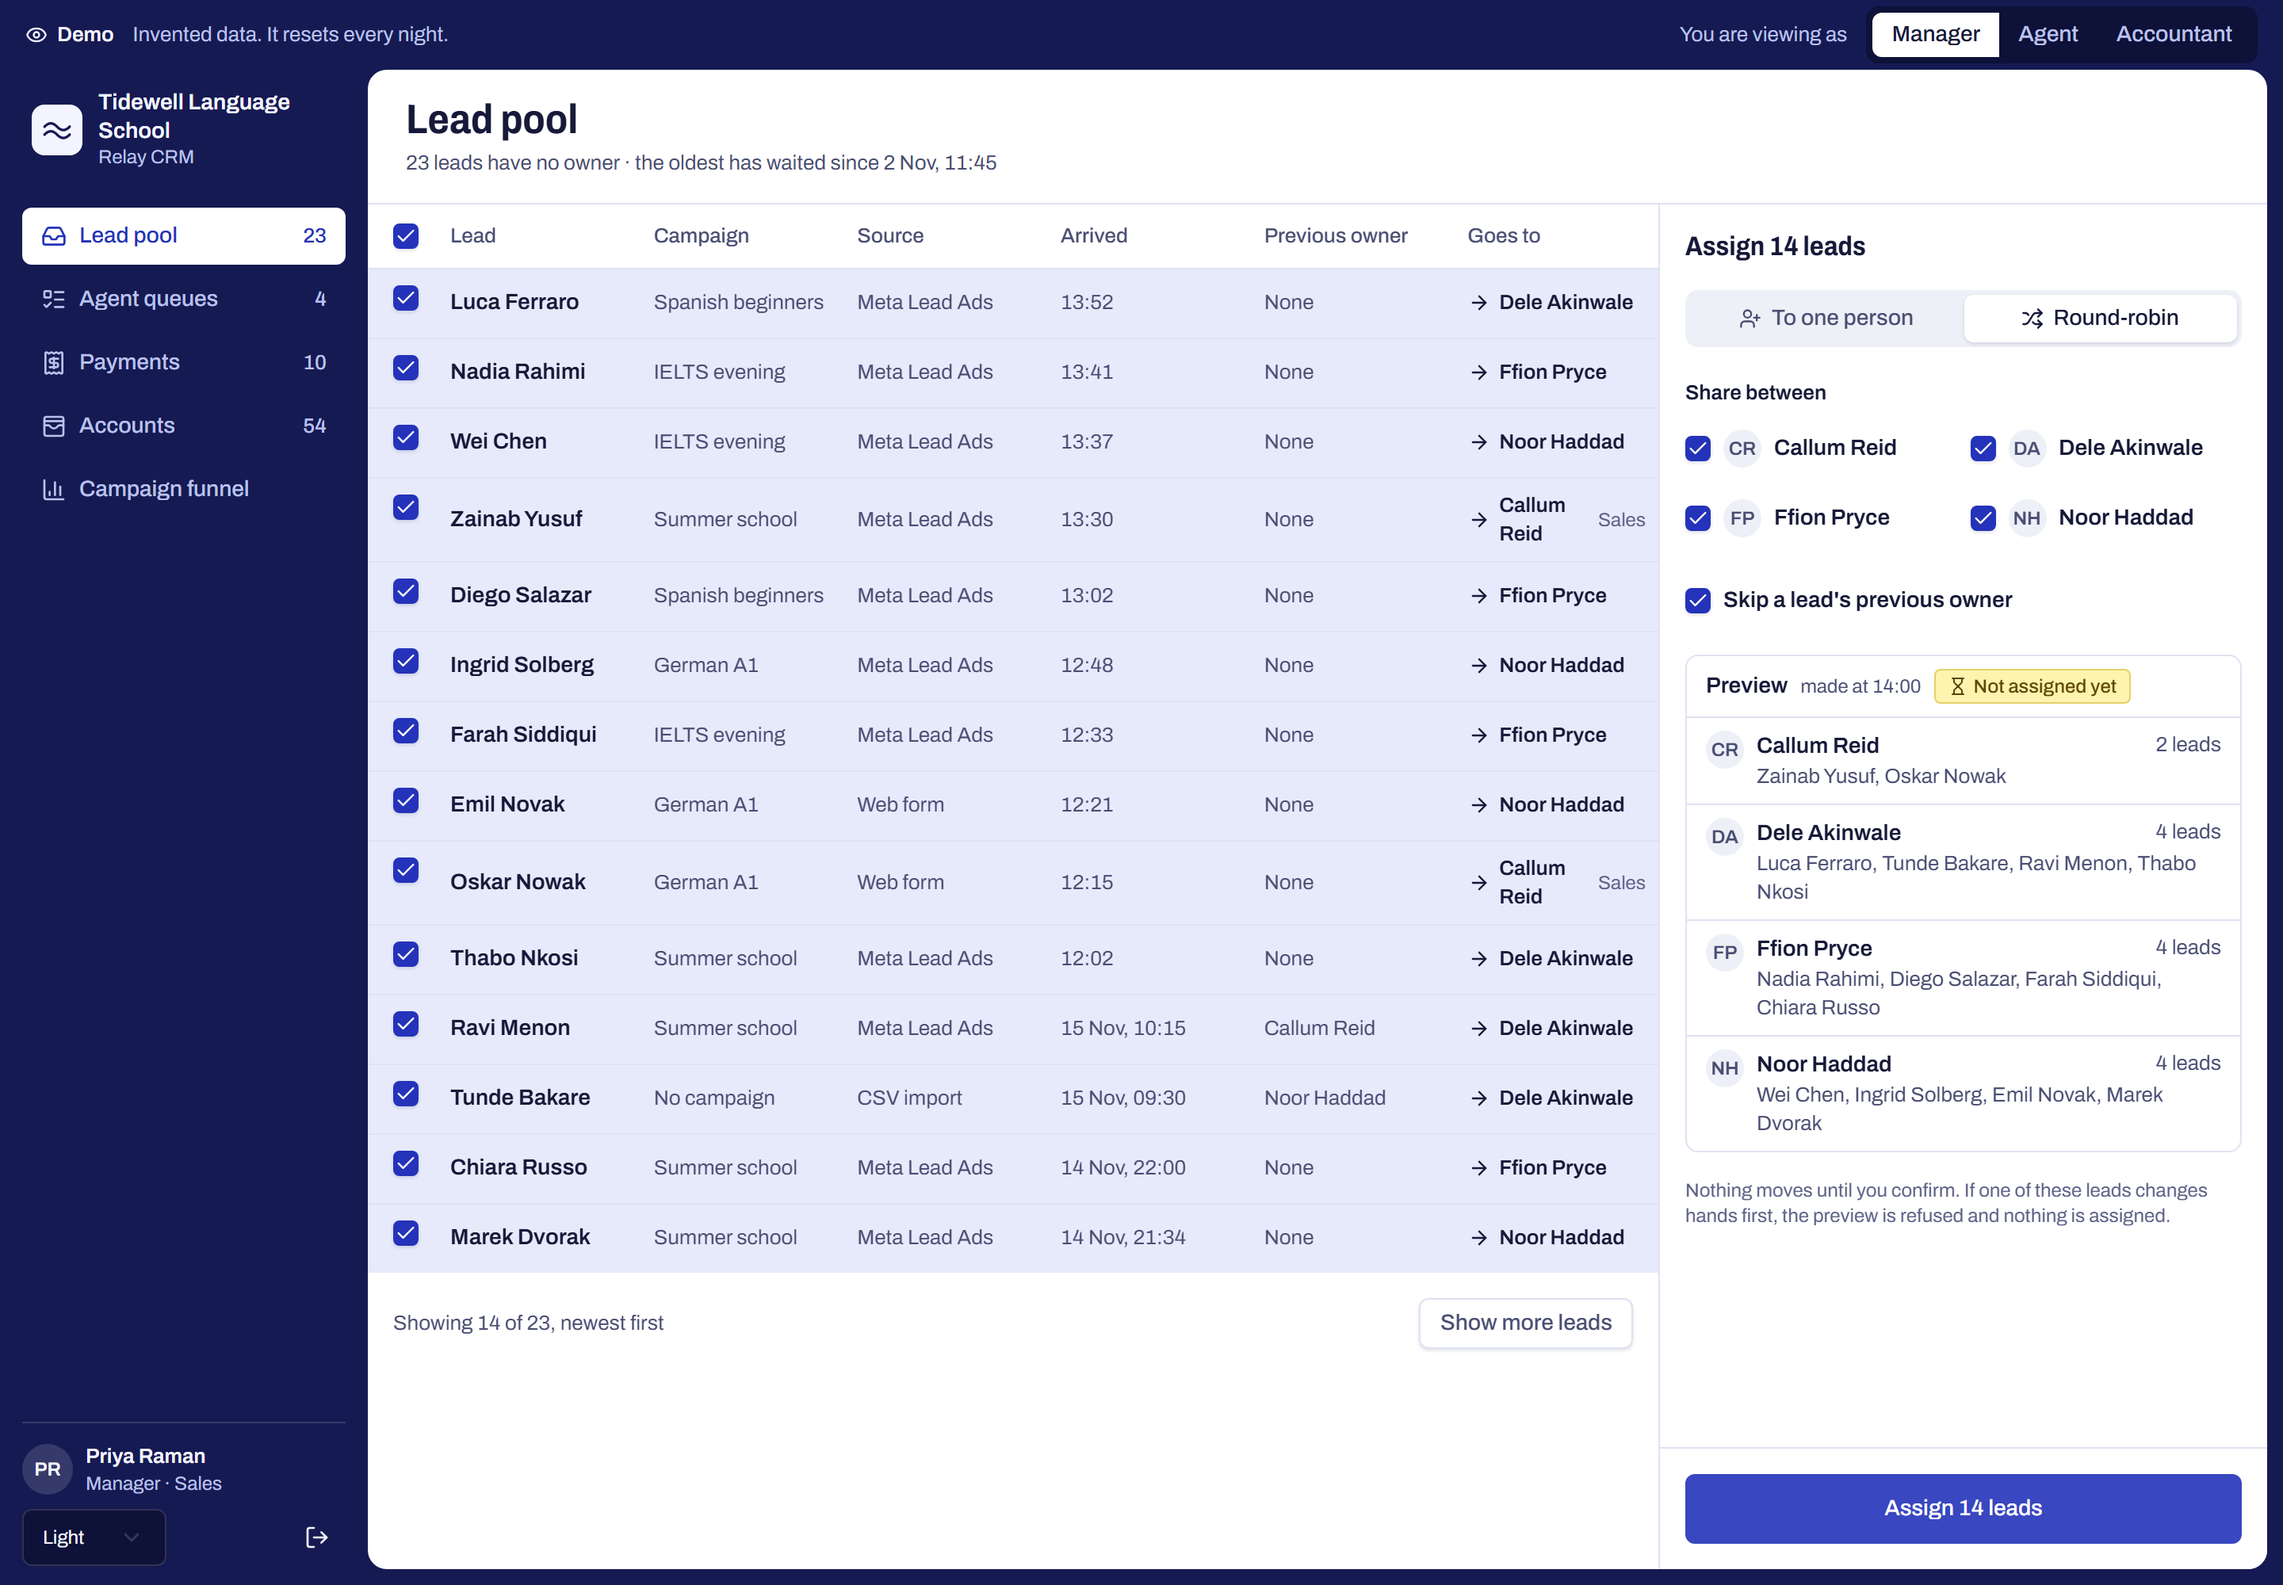
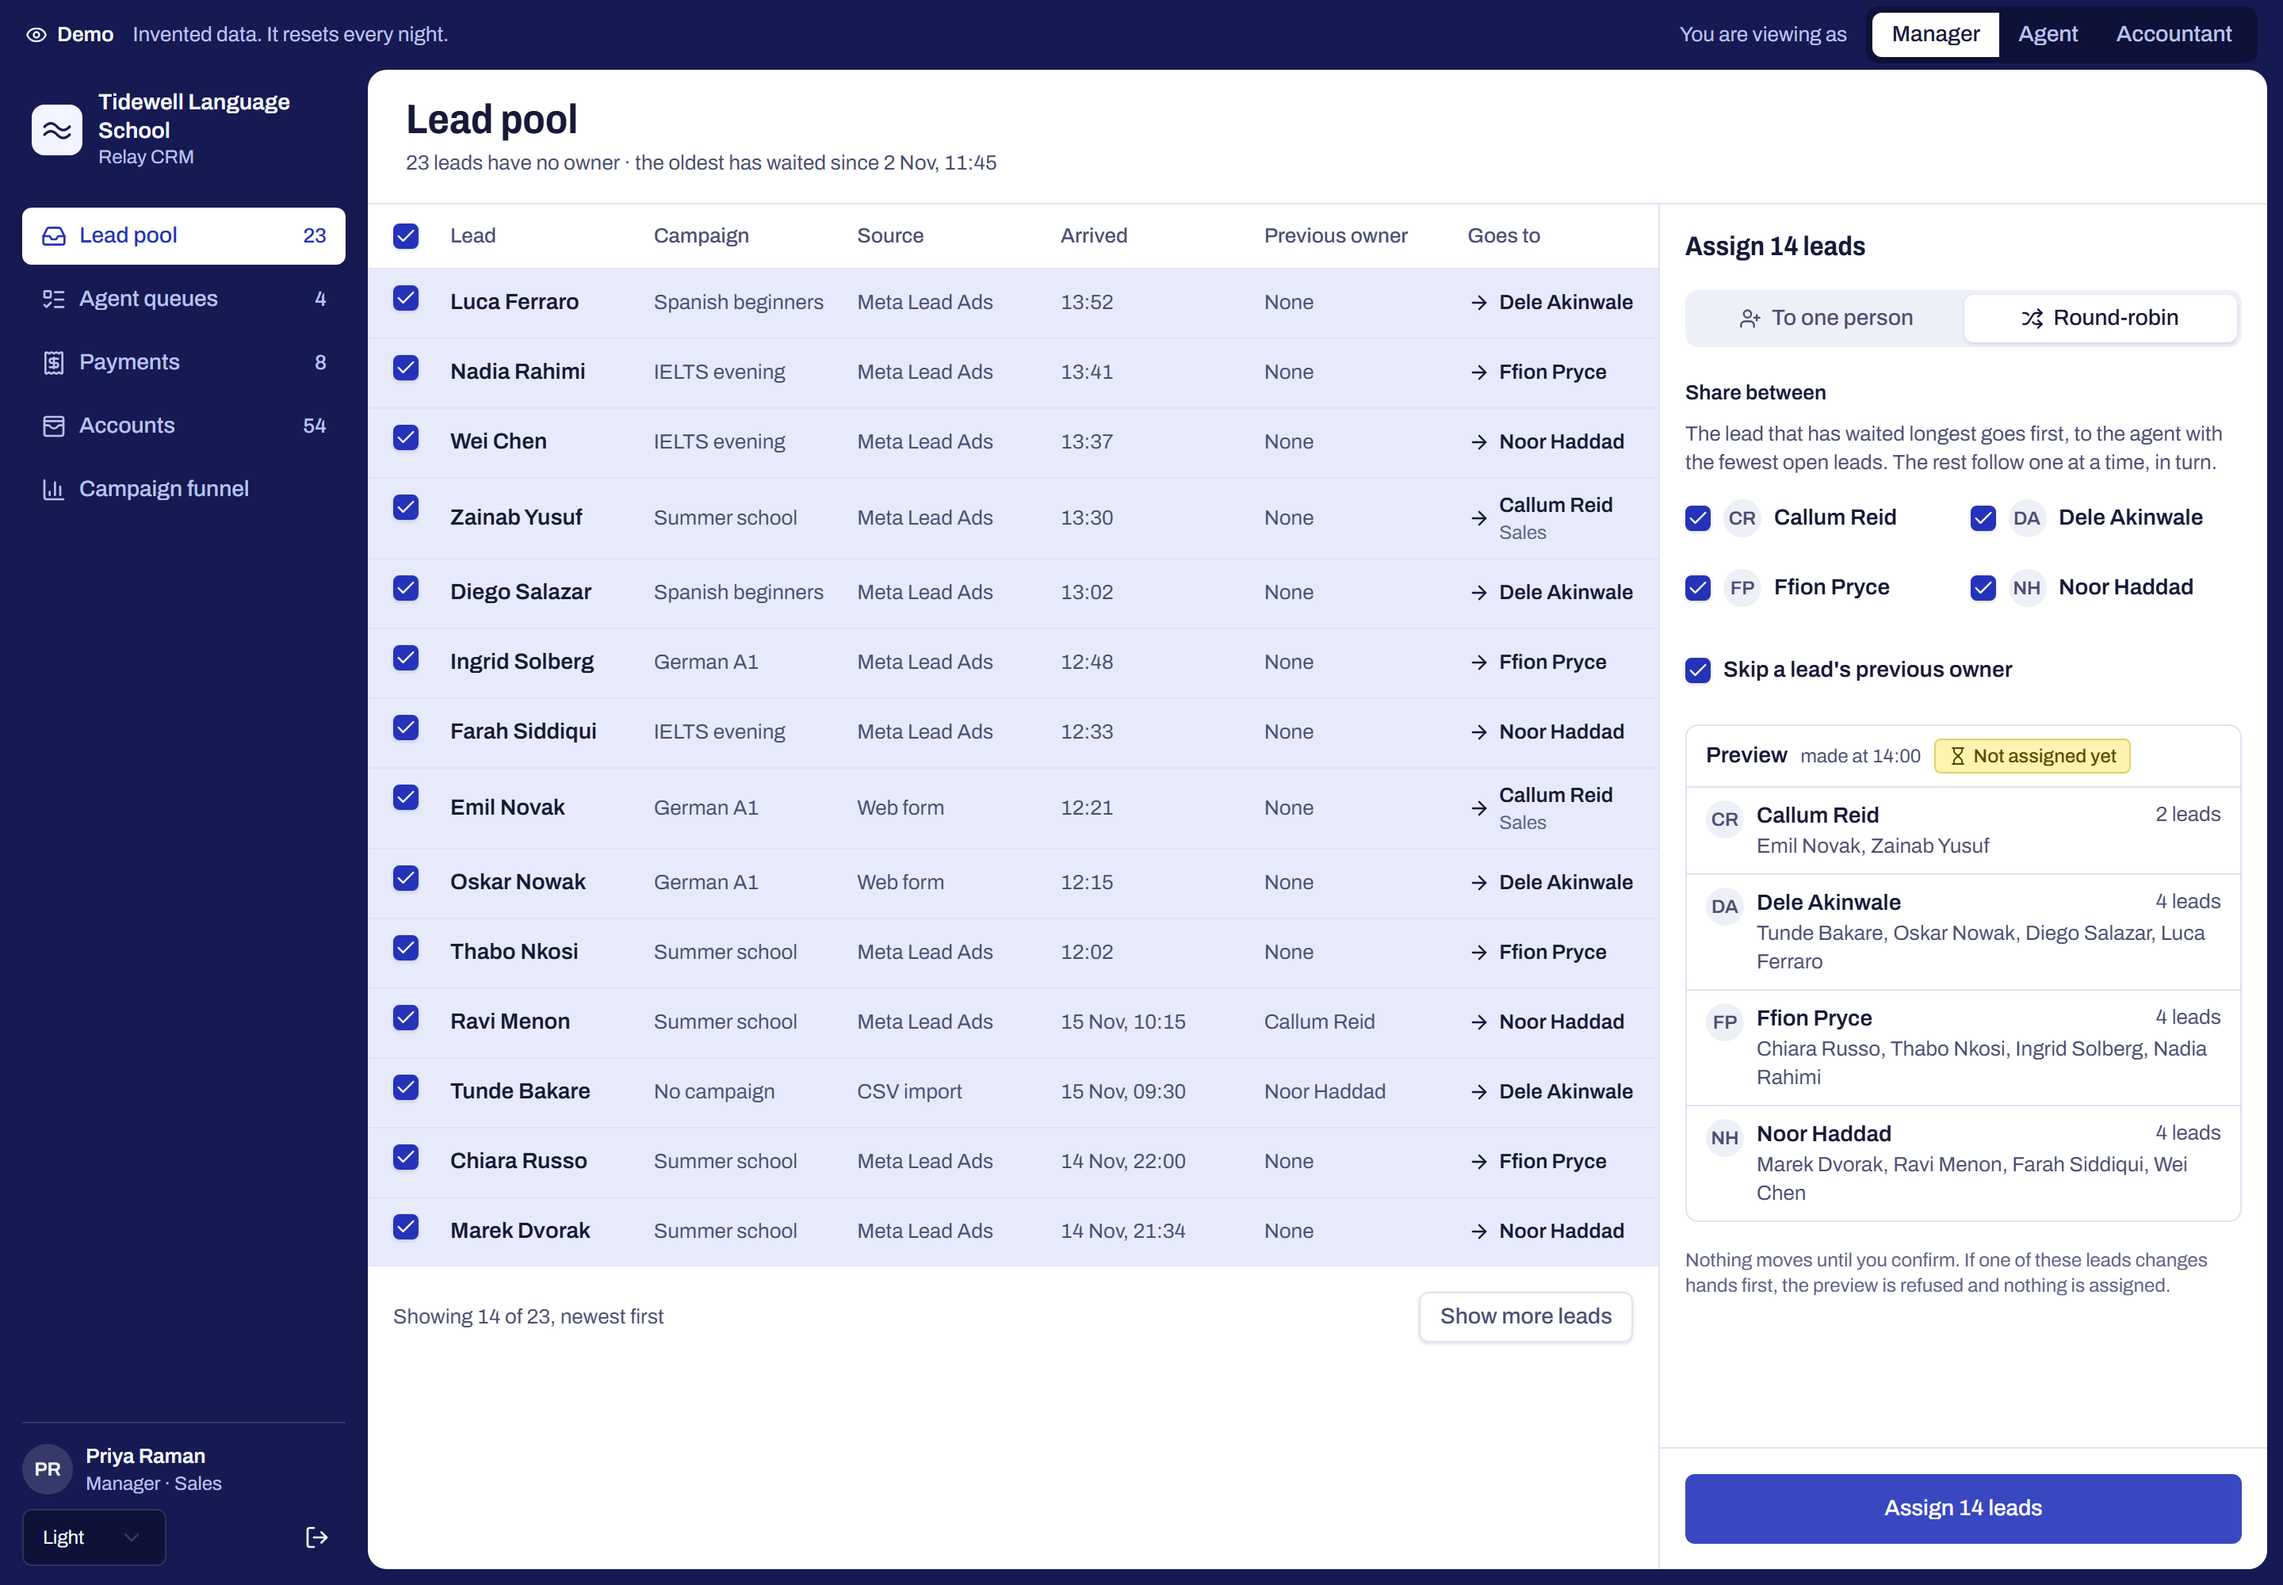
fix(distribution): deal the longest-waiting lead first and refresh the README images

diff --git a/apps/web/src/components/pool.tsx b/apps/web/src/components/pool.tsx
@@ -303,13 +303,15 @@ export function PoolScreen({ zone }: { zone: string }) {
                           ) : person ? (
                             <span className="flex items-center gap-1.5 font-semibold">
                               <Icon name="next" size="small" />
-                              {person.name}
-                              {agents.filter((agent) => agent.ownerId === person.ownerId).length >
-                                1 && (
-                                <span className="block text-xs font-normal text-muted-foreground">
-                                  {person.team}
-                                </span>
-                              )}
+                              <span className="whitespace-nowrap">
+                                {person.name}
+                                {agents.filter((agent) => agent.ownerId === person.ownerId).length >
+                                  1 && (
+                                  <span className="block text-xs font-normal text-muted-foreground">
+                                    {person.team}
+                                  </span>
+                                )}
+                              </span>
                             </span>
                           ) : (
                             "Not selected"
@@ -460,8 +462,8 @@ export function PoolScreen({ zone }: { zone: string }) {
                         <fieldset className="space-y-2">
                           <legend className="text-caption font-semibold">Share between</legend>
                           <p className="text-caption text-secondary-foreground">
-                            Leads are dealt one at a time, in turn. The agent with the fewest open
-                            leads goes first.
+                            The lead that has waited longest goes first, to the agent with the
+                            fewest open leads. The rest follow one at a time, in turn.
                           </p>
                           <div className="grid gap-2 @xs/assignment:grid-cols-2">
                             {people.map((agent) => (

diff --git a/packages/store/test/access-assignment.int.test.ts b/packages/store/test/access-assignment.int.test.ts
@@ -159,6 +159,35 @@ describe("assignment under contention", () => {
     expect(await auditCount(db)).toEqual([{ activities: 0, audit: 0, distributions: 0 }]);
   });
 
+  test("round-robin deals the longest-waiting lead first, to the emptiest queue", async ({
+    db,
+  }) => {
+    const w = await world(db);
+    const freshId = await db.seedUser("agent");
+    await db.ownerRows("INSERT INTO memberships(user_id, team_id, is_lead) VALUES ($1,$2,false)", [
+      freshId,
+      w.agent.teamId,
+    ]);
+    const fresh: Assignment = { ownerId: freshId, teamId: w.agent.teamId };
+    const pool = (email: string, createdAt: Date) =>
+      db.seedLead({
+        email,
+        createdAt,
+        lifecycle: { state: { status: "new" }, firstAssignedAt: null, previousOwnerId: null },
+      });
+    const seededFirst = await pool("newest@example.com", new Date("2026-11-16T12:00:00Z"));
+    const seededLast = await pool("oldest@example.com", new Date("2026-11-10T09:00:00Z"));
+    const preview = await db.store.previewDistribution(w.actor, {
+      leadIds: [seededFirst, seededLast],
+      agents: [w.agent, fresh],
+      excludePreviousOwner: false,
+    });
+    expect(preview.items).toEqual([
+      { leadId: seededLast, to: fresh },
+      { leadId: seededFirst, to: w.agent },
+    ]);
+  });
+
   test("concurrent submits and later replays return the first result without new rows", async ({
     db,
   }) => {

diff --git a/packages/store/src/distribution.ts b/packages/store/src/distribution.ts
@@ -140,12 +140,18 @@ export async function previewDistribution(
     const current = await currentActor(tx, actor);
     if (!scopeHasRecords(recordScope(current, "lead", "assign")))
       throw new AccessError("accessDenied");
-    const leads: DistributionLead[] = [];
+    const waiting: { lead: DistributionLead; since: Date }[] = [];
     for (const id of [...new Set(request.leadIds)].sort()) {
       const row = await scopedLead(tx, current, id, "assign");
       if (row.status !== "new") throw new AccessError("conflict");
-      leads.push({ id, version: row.version, lifecycle: lifecycleFromRow(row) });
+      waiting.push({
+        lead: { id, version: row.version, lifecycle: lifecycleFromRow(row) },
+        since: row.createdAt,
+      });
     }
+    const leads = waiting
+      .sort((a, b) => a.since.getTime() - b.since.getTime() || a.lead.id.localeCompare(b.lead.id))
+      .map((entry) => entry.lead);
     const agents = [...request.agents].sort(
       (a, b) => a.ownerId.localeCompare(b.ownerId) || a.teamId.localeCompare(b.teamId),
     );

diff --git a/docs/api.md b/docs/api.md
@@ -188,7 +188,7 @@ The [payment reference](payments.md) covers card checkouts, manual approval, rec
 ## Assignment guarantees
 
 - Team leads and management manually assign pool leads, individually or in a batch.
-  Round-robin deals the leads one at a time to the selected agents in turn. The agent with the fewest open leads goes first, and ties go by ascending user ID. It skips a lead's previous owner when asked, and stores an immutable preview with a fingerprint. Changed leads invalidate the preview,
+  Round-robin deals the leads one at a time to the selected agents in turn, starting with the lead that has waited longest. The agent with the fewest open leads goes first, and ties go by ascending user ID. It skips a lead's previous owner when asked, and stores an immutable preview with a fingerprint. Changed leads invalidate the preview,
   even if a lead returns to its earlier state. A matching idempotency key and request replays the
   stored result. A different request under the same key returns `idempotencyConflict`.
   The planner can exclude previous owners. Reassignment preserves status and follow-up detail.
